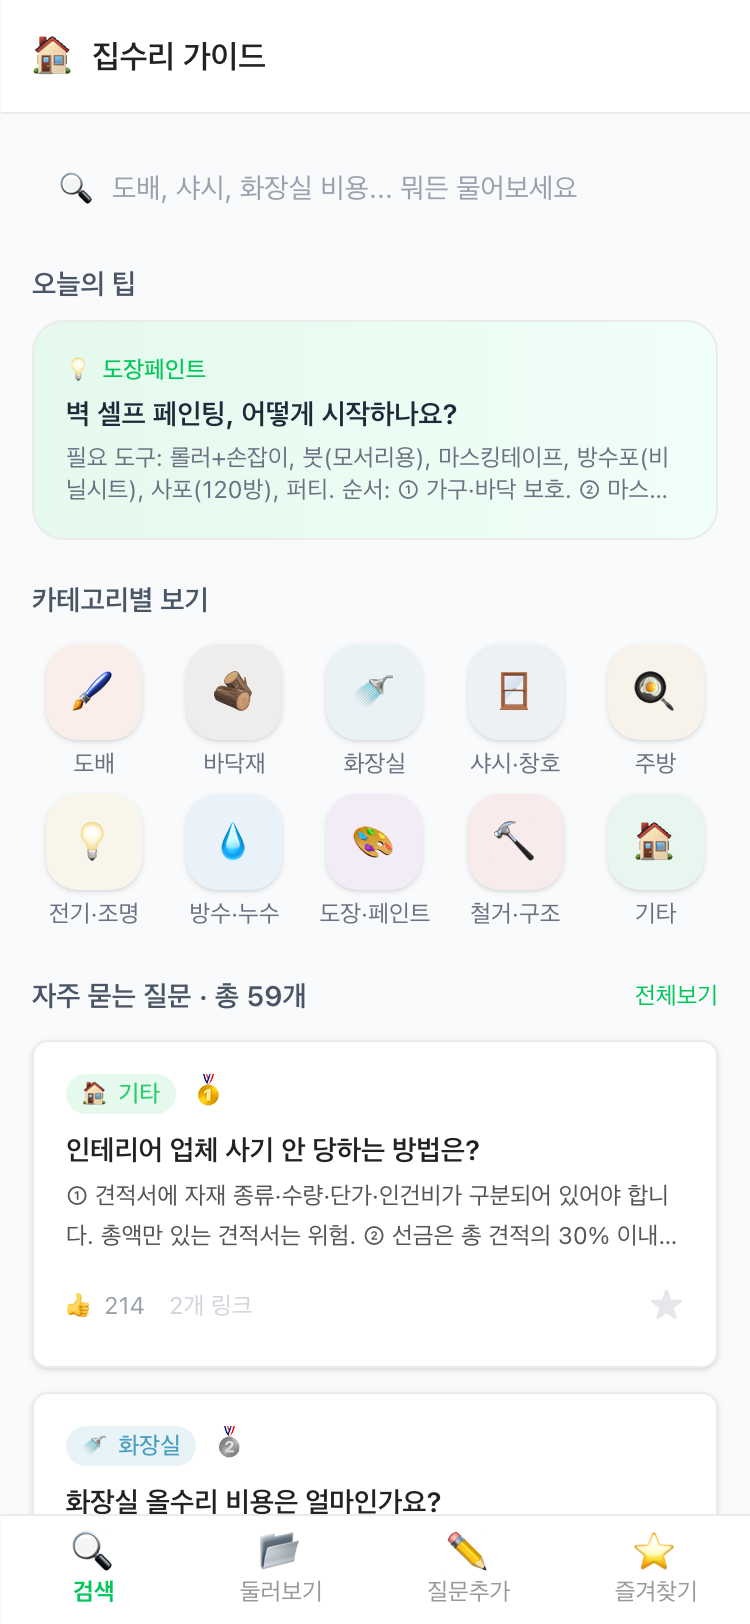
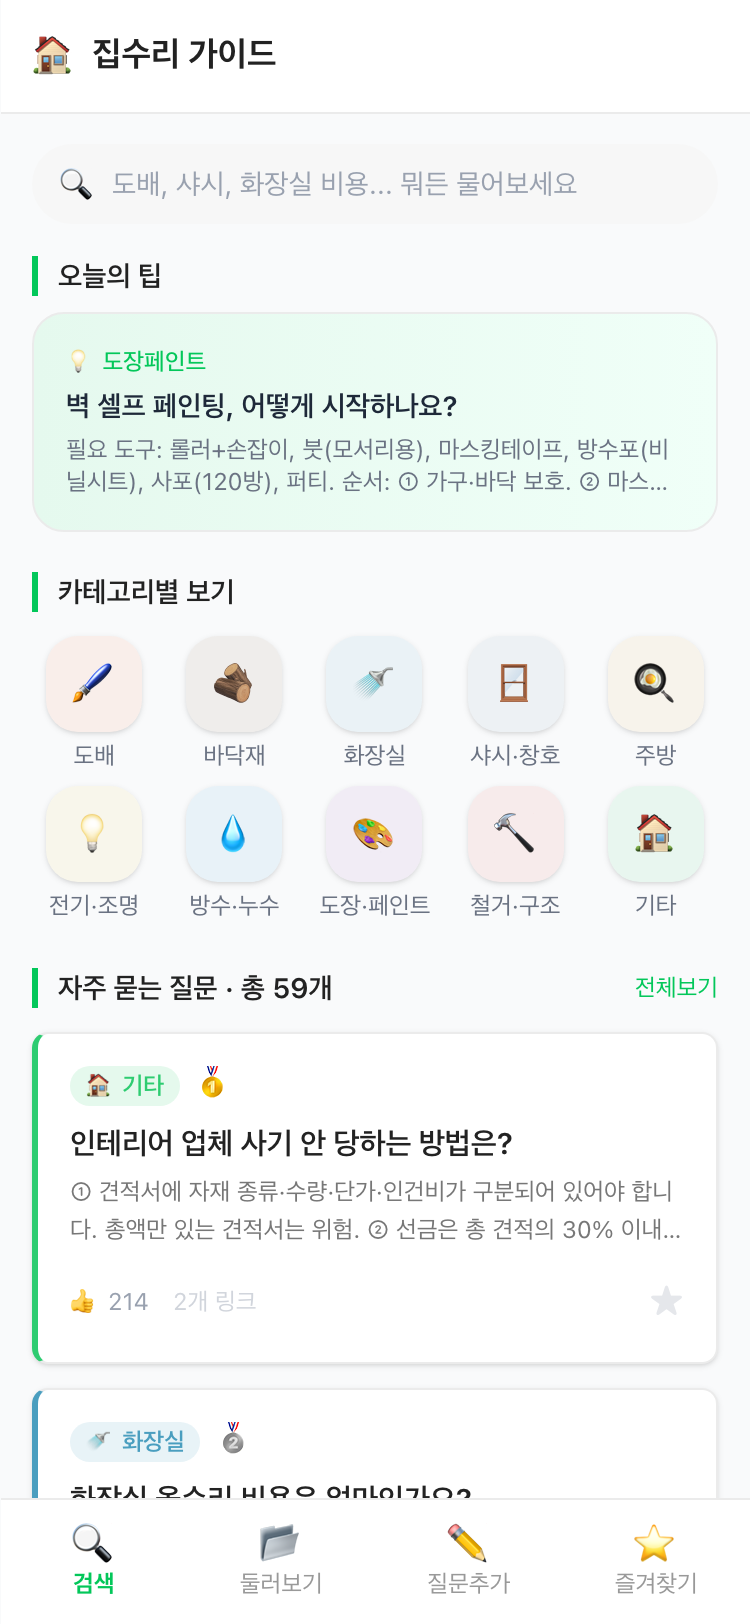
design: 사이클 2 — 타이포·카드·탭바·섹션헤더 개선
- 검색창 rounded-full (pill 형태, 네이버 스타일)
- QACard 카테고리 border-l-[3px] 왼쪽 컬러 accent
- 섹션 헤더 border-l-[3px] border-[#03C75A] accent 라인 (4곳)
- 하단 탭바 py-2→py-3 (터치 영역 확대)
- 타이포 강화: Header h1 17px/bold, QACard 15px
- 즐겨찾기 빈 상태 그린 원형 + CTA 버튼 추가

Confidence: high
Scope-risk: narrow

diff --git a/src/components/home/SearchPage.tsx b/src/components/home/SearchPage.tsx
@@ -49,7 +49,7 @@ export function SearchPage() {
             value={searchQuery}
             onChange={handleSearch}
             placeholder="도배, 샤시, 화장실 비용... 뭐든 물어보세요"
-            className="w-full pl-10 pr-4 py-3 bg-gray-50 rounded-2xl text-sm outline-none focus:ring-2 focus:ring-[#03C75A]/30 focus:border-[#03C75A] focus:bg-white transition-all placeholder-gray-400"
+            className="w-full pl-10 pr-4 py-2.5 bg-[#F7F7F7] rounded-full text-sm outline-none focus:ring-2 focus:ring-[#03C75A]/30 focus:border-[#03C75A] focus:bg-white transition-all placeholder-gray-400"
           />
           {searchQuery && (
             <button
@@ -122,7 +122,7 @@ export function SearchPage() {
           {recentSearches.length > 0 && (
             <div className="mb-5">
               <div className="flex items-center justify-between mb-2">
-                <h2 className="text-sm font-semibold text-gray-600">최근 검색어</h2>
+                <h2 className="text-sm font-semibold text-[#222222] pl-2.5 border-l-[3px] border-[#03C75A]">최근 검색어</h2>
                 <button onClick={clearRecentSearches} className="text-xs text-gray-400">
                   전체 삭제
                 </button>
@@ -143,7 +143,7 @@ export function SearchPage() {
 
           {/* 오늘의 팁 */}
           <div className="mb-5">
-            <h2 className="text-sm font-semibold text-gray-600 mb-2">오늘의 팁</h2>
+            <h2 className="text-sm font-semibold text-[#222222] pl-2.5 border-l-[3px] border-[#03C75A] mb-2">오늘의 팁</h2>
             <button
               onClick={() => setSelectedItem(todayTip)}
               className="w-full bg-gradient-to-r from-[#E5F9EE] to-[#F0FFF8] border border-[#EBEBEB] rounded-2xl p-4 text-left active:scale-[0.98] transition-transform"
@@ -155,7 +155,7 @@ export function SearchPage() {
           </div>
 
           {/* 카테고리 빠른 접근 */}
-          <h2 className="text-sm font-semibold text-gray-600 mb-3">카테고리별 보기</h2>
+          <h2 className="text-sm font-semibold text-[#222222] pl-2.5 border-l-[3px] border-[#03C75A] mb-3">카테고리별 보기</h2>
           <div className="grid grid-cols-5 gap-2 mb-6">
             {CATEGORIES.map((cat) => (
               <button
@@ -176,7 +176,7 @@ export function SearchPage() {
 
           {/* 인기 질문 */}
           <div className="flex items-center justify-between mb-3">
-            <h2 className="text-sm font-semibold text-gray-600">자주 묻는 질문 · 총 {KNOWLEDGE_BASE.length + userQuestions.length}개</h2>
+            <h2 className="text-sm font-semibold text-[#222222] pl-2.5 border-l-[3px] border-[#03C75A]">자주 묻는 질문 · 총 {KNOWLEDGE_BASE.length + userQuestions.length}개</h2>
             <button
               onClick={() => setSelectedItem(null)}
               className="text-xs text-[#03C75A]"

diff --git a/src/components/favorites/FavoritesPage.tsx b/src/components/favorites/FavoritesPage.tsx
@@ -5,7 +5,7 @@ import { QACard } from '@/components/qa/QACard'
 import { exportData, parseImportData } from '@/utils/exportImport'
 
 export function FavoritesPage() {
-  const { favorites, userQuestions, likesMap, importData } = useQAStore()
+  const { favorites, userQuestions, likesMap, importData, setActiveTab } = useQAStore()
   const fileInputRef = useRef<HTMLInputElement>(null)
   const allItems = [...KNOWLEDGE_BASE, ...userQuestions]
   const favItems = allItems.filter((item) => favorites.includes(item.id))
@@ -71,13 +71,21 @@ export function FavoritesPage() {
       )}
       {userQuestions.length === 0 && favItems.length === 0 && (
         <div className="flex flex-col items-center justify-center py-16 text-center">
-          <div className="text-5xl mb-4">⭐</div>
-          <h3 className="text-base font-semibold text-gray-700 mb-2">저장한 질문이 없어요</h3>
-          <p className="text-sm text-gray-400 leading-relaxed">
+          <div className="w-20 h-20 rounded-full bg-[#E5F9EE] flex items-center justify-center text-4xl mb-4">
+            ⭐
+          </div>
+          <h3 className="text-base font-bold text-[#222222] mb-2">저장한 질문이 없어요</h3>
+          <p className="text-sm text-[#777777] leading-relaxed mb-4">
             자주 참고하고 싶은 답변의
             <br />
             ★ 버튼을 눌러 저장해보세요
           </p>
+          <button
+            onClick={() => setActiveTab('search')}
+            className="px-6 py-2.5 bg-[#03C75A] text-white text-sm font-semibold rounded-full"
+          >
+            인기 질문 보러가기
+          </button>
         </div>
       )}
       {dataControls}

diff --git a/src/components/qa/QACard.tsx b/src/components/qa/QACard.tsx
@@ -30,12 +30,13 @@ export function QACard({ item, compact = false, rank }: Props) {
 
   return (
     <article
-      className="bg-white rounded-lg shadow-sm border border-[#EBEBEB] p-4 cursor-pointer active:scale-[0.98] transition-transform"
+      className="bg-white rounded-lg shadow-sm border border-[#EBEBEB] border-l-[3px] p-4 cursor-pointer active:scale-[0.98] transition-transform"
+      style={{ borderLeftColor: category?.color ?? '#03C75A' }}
       onClick={() => setSelectedItem(item)}
     >
       <div className="flex items-start gap-2 mb-2">
         <span
-          className="inline-flex items-center gap-1 text-xs px-2 py-0.5 rounded-full font-medium shrink-0"
+          className="inline-flex items-center gap-1 text-xs px-2 py-0.5 rounded-full font-semibold shrink-0"
           style={{ backgroundColor: category?.color + '20', color: category?.color }}
         >
           {category?.icon} {item.category}
@@ -55,12 +56,12 @@ export function QACard({ item, compact = false, rank }: Props) {
         )}
       </div>
 
-      <h3 className="text-sm font-semibold text-[#222222] leading-snug mb-1">
+      <h3 className="text-[15px] font-semibold text-[#222222] leading-snug mb-1">
         {highlight(item.question, searchQuery)}
       </h3>
 
       {!compact && (
-        <p className="text-xs text-[#555555] leading-relaxed line-clamp-2">
+        <p className="text-xs text-[#777777] leading-relaxed line-clamp-2">
           {highlight(item.answer, searchQuery)}
         </p>
       )}

diff --git a/src/components/layout/Header.tsx b/src/components/layout/Header.tsx
@@ -21,7 +21,7 @@ export function Header() {
           >
             ←
           </button>
-          <h1 className="text-base font-semibold text-[#222222] truncate flex-1">상세 보기</h1>
+          <h1 className="text-[17px] font-bold text-[#222222] truncate flex-1">상세 보기</h1>
         </div>
       </header>
     )
@@ -31,7 +31,7 @@ export function Header() {
     <header className="fixed top-0 left-1/2 -translate-x-1/2 w-full max-w-[430px] bg-white z-40 border-b border-[#EBEBEB]">
       <div className="flex items-center h-14 px-4">
         <span className="text-xl mr-2">🏠</span>
-        <h1 className="text-base font-semibold text-[#222222]">{TAB_TITLES[activeTab]}</h1>
+        <h1 className="text-[17px] font-bold text-[#222222]">{TAB_TITLES[activeTab]}</h1>
       </div>
     </header>
   )

diff --git a/src/components/layout/BottomNav.tsx b/src/components/layout/BottomNav.tsx
@@ -24,7 +24,7 @@ export function BottomNav() {
             key={tab.id}
             onClick={() => setActiveTab(tab.id)}
             className={clsx(
-              'flex-1 flex flex-col items-center justify-center py-2 gap-0.5 text-xs transition-colors',
+              'flex-1 flex flex-col items-center justify-center py-3 gap-0.5 text-xs transition-colors',
               activeTab === tab.id
                 ? 'text-[#03C75A] font-bold'
                 : 'text-[#999999]',
